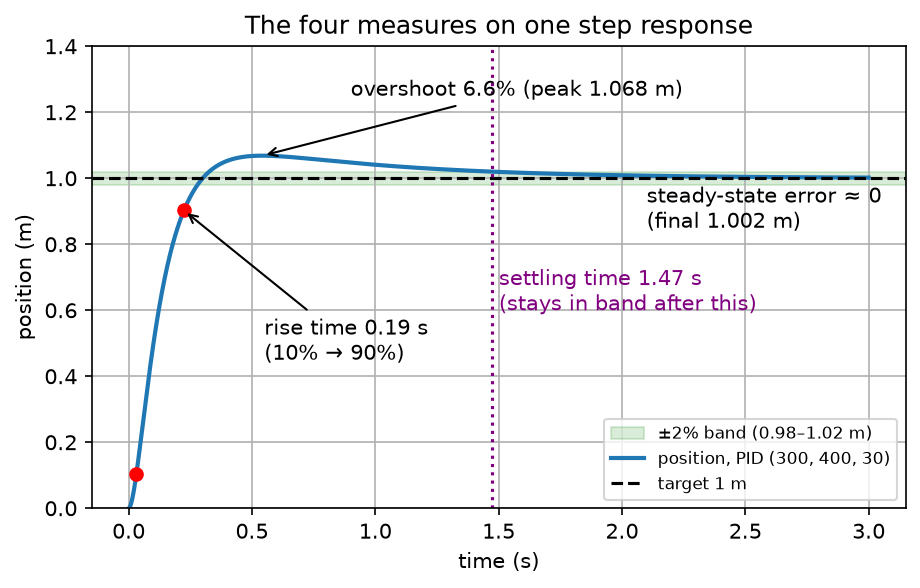
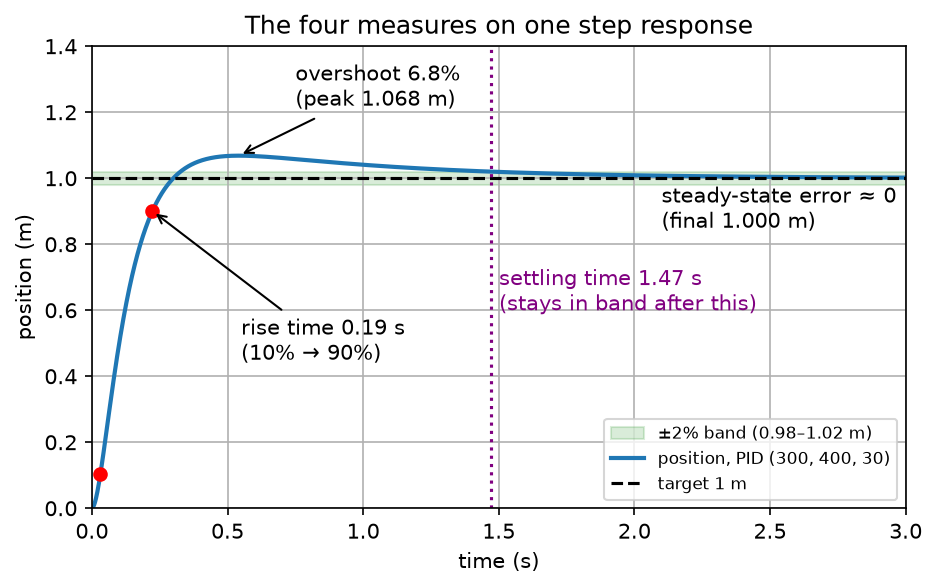
Section 7a: force limit, clamping anti-windup, fig08

diff --git a/pid.py b/pid.py
@@ -1,24 +1,38 @@
+import numpy as np
+
+
 class PID:
-    def __init__(self, kp, ki, kd):
+    def __init__(self, kp, ki, kd, u_min=-np.inf, u_max=np.inf, anti_windup=False):
         self.kp = kp
         self.ki = ki
         self.kd = kd
+        self.u_min = u_min                  # NEW: motor limits (N); ±infinity = no limit
+        self.u_max = u_max
+        self.anti_windup = anti_windup      # NEW: True = use clamping
         self.integral = 0.0
         self.e_prev = None
-        self.history = []                        # (P, I, D) for every step
+        self.history = []
 
     def update(self, r, y, dt):
         e = r - y
-        self.integral = self.integral + e * dt
         if self.e_prev is None:
             deriv = 0.0
         else:
             deriv = (e - self.e_prev) / dt
-        P = self.kp * e                          # CHANGED: name each part...
-        I = self.ki * self.integral
+        P = self.kp * e
         D = self.kd * deriv
-        u = P + I + D                            # ...then add them (same maths as before)
-        self.history.append((P, I, D))           # NEW: remember the three parts
+        I_try = self.ki * (self.integral + e * dt)        # NEW: the I part IF we integrate this step
+        u_unsat = P + I_try + D                           # what the controller WANTS
+        u = min(max(u_unsat, self.u_min), self.u_max)     # NEW: what the motor can GIVE (clip)
+
+        # NEW: decide whether to add this step's error to the running total
+        pushing_further_up = u_unsat > self.u_max and e > 0
+        pushing_further_down = u_unsat < self.u_min and e < 0
+        if not self.anti_windup or not (pushing_further_up or pushing_further_down):
+            self.integral = self.integral + e * dt
+
+        I = self.ki * self.integral
+        self.history.append((P, I, D))
         self.e_prev = e
         return u
 

diff --git a/make_figures.py b/make_figures.py
@@ -150,6 +150,32 @@ def fig07_parts():
     plt.close()
     print(f"saved fig07 | at t = 3 s: P = {P[-1]:.2f}, I = {I[-1]:.2f}, D = {D[-1]:.2f} N")
 
+def fig08_windup():
+    fig, axs = plt.subplots(1, 3, figsize=(13, 3.8))     # 1 row, 3 graphs side by side
+    for aw, color, name in [(False, "tab:red", "no anti-windup"),
+                            (True, "tab:green", "with anti-windup (clamping)")]:
+        pid = PID(300, 400, 30, u_min=-30, u_max=30, anti_windup=aw)
+        t, x, u = simulate(pid=pid, T=4.0)
+        I = np.array(pid.history)[:, 1]
+        axs[0].plot(t, x, color=color, label=name)
+        axs[1].plot(t, u, color=color, label=name)
+        axs[2].plot(t, I, color=color, label=f"{name} (max {I.max():.0f} N)")
+
+    axs[0].axhline(1.0, linestyle="--", color="k", label="target 1 m")
+    axs[0].set(title="Position", xlabel="time (s)", ylabel="position (m)")
+    axs[1].axhline(30, linestyle=":", color="k", label="motor limit ±30 N")
+    axs[1].axhline(-30, linestyle=":", color="k")
+    axs[1].set(title="Force sent to motor", xlabel="time (s)", ylabel="force (N)")
+    axs[2].axhline(20, linestyle=":", color="gray", label="20 N needed at 1 m")
+    axs[2].set(title="I part (the stored-up push)", xlabel="time (s)", ylabel="force (N)")
+    for ax in axs:
+        ax.legend(fontsize=7)
+        ax.grid(True)
+    fig.suptitle("Integral windup: motor limited to 30 N, gains (300, 400, 30)")
+    fig.tight_layout()
+    fig.savefig("figures/fig08_windup.png", dpi=150, bbox_inches="tight")
+    plt.close(fig)
+    print("saved fig08")
 
 if __name__ == "__main__":
     fig01_open_loop()
@@ -159,3 +185,4 @@ if __name__ == "__main__":
     fig05_pd()
     fig06_compare()
     fig07_parts()
+    fig08_windup()

diff --git a/sweep.py b/sweep.py
@@ -22,3 +22,12 @@ for name, gains in [("P", (300, 0, 0)), ("PI", (300, 400, 0)), ("PD", (300, 0, 3
     t, x, u = simulate(pid=PID(*gains), T=6.0)
     rise, os_, settle, sse= metrics(t,x)
     print(f"{name:4s} | {rise:.3f} s | {os_:5.1f} % | {settle:.3f} s | {sse:.4f} m")
+
+print()
+print("30 N limit | rise | overshoot | settle | max I part")
+for aw in [False, True]:
+    pid = PID(300, 400, 30, u_min=-30, u_max=30, anti_windup=aw)
+    t, x, u = simulate(pid=pid, T=6.0)
+    rise, os_, settle, sse = metrics(t, x)
+    I_max = np.array(pid.history)[:, 1].max()
+    print(f"anti-windup {str(aw):5s} | {rise:.3f} s | {os_:5.1f} % | {settle:.2f} s | {I_max:.1f} N")
